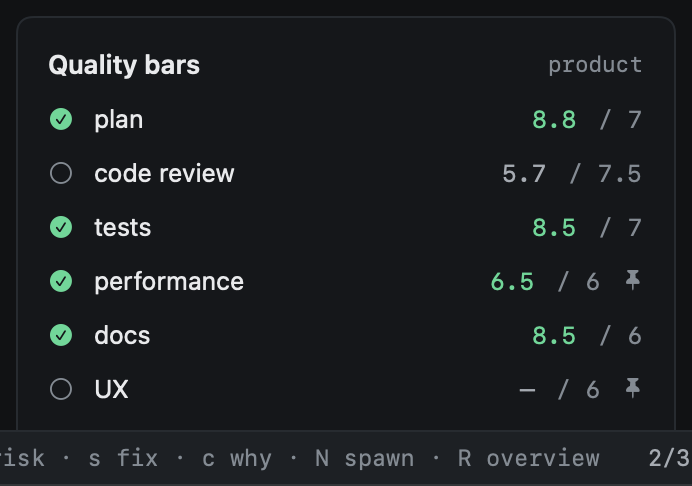
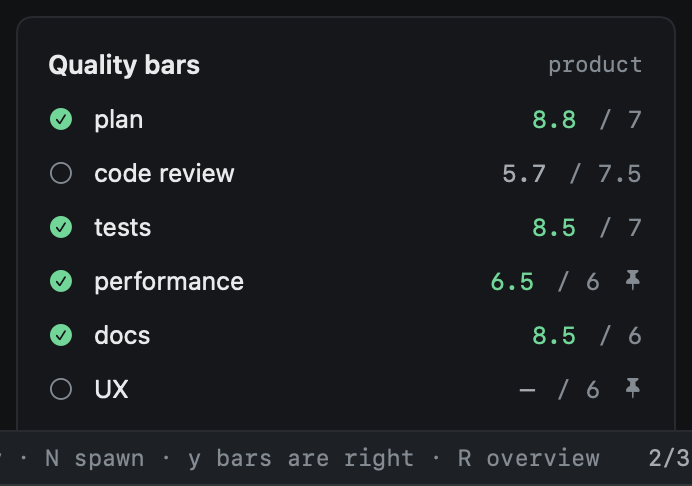
Proposals are answered once; the bars step waits for you
- GoalOps.accept and reject are idempotent per proposal id: yes to an edit already
  applied (or no to one already rejected) returns it unchanged, with no new version.
  The app keeps the answers in flight and a key pressed again before the store answers
  takes the next change (GoalEdits.next), never the same one. tutor-check's pauses
  that worked around the race are gone.
- "Choose the quality bars" no longer ticks off when heed works the profile out: it
  waits until you say the bars are right (goal.bars.accept, y in Reviewers, recorded as
  a profile decision of yours by GoalOps.confirmBars) or pin one, and asks again when
  the bars move after that. The Quality bars panel says whose the bars are.
- The swarm-goal-page shot renders taller: the next-steps card had pushed its panel
  out of the window, so the shot failed and kept a stale image.

Changed region(s): [[0.2731, 0.9259, 0.6069, 0.9877], [0.0, 0.9259, 0.2428, 0.9568], [0.789, 0.9259, 0.8194, 0.9568]]

diff --git a/Tests/HeedCoreTests/GoalGuideTests.swift b/Tests/HeedCoreTests/GoalGuideTests.swift
@@ -54,6 +54,47 @@ struct GoalGuideTests {
         #expect(GoalGuide.of(input).steps.first { $0.step == .mirror }?.state == .todo)
     }
 
+    @Test func theBarsWaitForYouNotForTheModel() async throws {
+        func decision(_ stakes: GoalProfile.Stakes, _ source: ProfileDecision.Source) -> QualityRecord {
+            let profile = GoalProfile(stakes: stakes)
+            return QualityRecord(goal: "g", at: t0, entry: .profile(ProfileDecision(
+                profile: profile, bars: profile.bars(), changes: [], note: "", goalVersion: 1, source: source
+            )))
+        }
+        func state(_ records: [QualityRecord]) -> GoalGuide.State {
+            GoalGuide.state(of: .bars, .init(doc: sharpDoc, quality: GoalQuality.fold(records, doc: sharpDoc)))
+        }
+        // heed worked the profile out: the step waits for you to look.
+        #expect(state([decision(.product, .model)]) == .waiting(
+            "heed set \(GoalProfile(stakes: .product).bars().count) bars from GOAL.md: confirm or change them",
+            command: "goal.reviewers"
+        ))
+        // You said they are right.
+        let mine = decision(.product, .you)
+        #expect(state([decision(.product, .model), mine]).isDone)
+        // The model moved them after you confirmed: look again.
+        var later = decision(.publicAPI, .model)
+        later.at = t0 + 60
+        #expect(state([mine, later]) == .waiting(
+            "the bars changed since you confirmed them",
+            command: "goal.reviewers"
+        ))
+        // A pin is you changing them.
+        #expect(state([decision(.product, .model), QualityRecord(goal: "g", at: t0 + 1, entry: .pins([.docs: 5]))])
+            .isDone)
+
+        // The operation records the bars as they stand, as yours.
+        let ops = try GoalOps.inMemory()
+        let goal = try await ops.create(title: "Faster search", statement: sharpDoc.goal, now: t0)
+        try await ops.setProfile(goal: goal.id, GoalProfile(stakes: .product), now: t0)
+        let records = try await ops.qualities()[goal.id]
+        #expect(records?.profile?.source == .model)
+        let confirmed = try await ops.confirmBars(goal: goal.id, now: t0 + 1)
+        #expect(confirmed.source == .you && confirmed.profile == GoalProfile(stakes: .product))
+        let after = try #require(try await ops.qualities()[goal.id])
+        #expect(GoalGuide.state(of: .bars, .init(doc: sharpDoc, quality: after)).isDone)
+    }
+
     @Test func aSwarmStartsTheWork() {
         let swarm = GoalSwarm(id: "g/swarm-1", goal: "g", number: 1, settings: SwarmSettings(repos: []), startedAt: t0)
         let state = GoalGuide.state(of: .start, .init(doc: sharpDoc, swarms: [swarm]))

diff --git a/Sources/HeedCore/Goals/GoalGuide.swift b/Sources/HeedCore/Goals/GoalGuide.swift
@@ -145,7 +145,7 @@ public enum GoalStep: String, CaseIterable, Hashable, Sendable, Codable {
             + "Without them nothing can say the goal is done."
         case .work: "Items are the pieces of work: the board moves them as sessions, PRs and merges show up."
         case .bars: "Not every goal needs a 10. Bars per lens (code review, tests, docs…) say how good is good "
-            + "enough, and reviewers score against them."
+            + "enough, and reviewers score against them. Look at them, then say they are right or change one."
         case .mirror: "Optional: colleagues follow the goal on GitHub, a meta issue and a sub-issue per item."
         case .start: "Start a session on an item, put one you have on the goal, or let a swarm plan and work it."
         }
@@ -278,13 +278,23 @@ public struct GoalGuide: Hashable, Sendable {
             let work = input.items.count { $0.kind == .work }
             return work > 0 ? .done("\(work) item\(work == 1 ? "" : "s") on the board") : .todo
         case .bars:
+            // Yours only: heed working the profile out sets bars, but the step waits for you to look at them.
             guard let quality = input.quality else { return .todo }
             if !quality.pins.isEmpty {
                 return .done("bars pinned for " + quality.pins.keys.sorted().map(\.title).joined(separator: ", "))
             }
-            if let profile = quality.profile {
-                let lenses = quality.lenses.count
-                return .done("\(profile.profile.text): \(lenses) lens\(lenses == 1 ? "" : "es") with a bar")
+            let now = Dictionary(uniqueKeysWithValues: quality.lenses.map { ($0.lens, $0.bar) })
+            if let mine = quality.profiles.last(where: { $0.source == .you }) {
+                if mine.bars == now {
+                    return .done("you confirmed \(now.count) bar\(now.count == 1 ? "" : "s")")
+                }
+                return .waiting("the bars changed since you confirmed them", command: "goal.reviewers")
+            }
+            if quality.profile != nil {
+                return .waiting(
+                    "heed set \(now.count) bar\(now.count == 1 ? "" : "s") from GOAL.md: confirm or change them",
+                    command: "goal.reviewers"
+                )
             }
             return .todo
         case .mirror:

diff --git a/Sources/HeedApp/Model/AppModel+GoalItems.swift b/Sources/HeedApp/Model/AppModel+GoalItems.swift
@@ -211,10 +211,15 @@ extension AppModel {
             words.removeFirst()
         }
         if case let .row("goals", key)? = commandTarget, key.hasPrefix("edit:") { named = Int64(key.dropFirst(5)) }
-        let waiting = goals.proposals
-        guard let edit = named.flatMap({ id in goals.snapshot.edits.first { $0.id == id } }) ?? waiting.first,
+        // A key pressed again before the last answer came back answers the next change, never the same one twice:
+        // the list moves on only once the store says the answer is in.
+        let next = GoalEdits.next(goals.proposals, answering: goals.answering)
+        guard let edit = named.flatMap({ id in goals.snapshot.edits.first { $0.id == id } }) ?? next,
               let id = edit.id
-        else { return say("no changes waiting for GOAL.md") }
+        else {
+            return say(goals.answering.isEmpty ? "no changes waiting for GOAL.md" : "still answering the last one")
+        }
+        guard !goals.answering.contains(id) else { return say("still answering that one") }
         let now = Clock.now
         let before = goals.snapshot.docs[edit.goal]
         switch answer {
@@ -222,10 +227,12 @@ extension AppModel {
             openCommandLine("goal.proposal.edit #\(id) \(edit.text)")
         case .accept, .edit:
             let text = words.isEmpty ? nil : words.joined(separator: " ")
+            goals.answering.insert(id)
             goals.run { ops in
                 try await ops.accept(edit: id, text: text, now: now)
             } done: { [weak self] result in
                 guard let self else { return }
+                goals.answering.remove(id)
                 switch result {
                 case let .success(done):
                     say(done.state == .applied ? "GOAL.md v\(done.version ?? 0): \(done.line)" : "nothing to change")
@@ -234,9 +241,11 @@ extension AppModel {
                 }
             }
         case .reject:
+            goals.answering.insert(id)
             goals.run { ops in
                 try await ops.reject(edit: id, now: now)
             } done: { [weak self] result in
+                self?.goals.answering.remove(id)
                 if case let .failure(error) = result { return self?.say("\(error)") ?? () }
                 self?.say("left out: \(edit.line)")
             }

diff --git a/Tests/HeedCoreTests/GoalItemTests.swift b/Tests/HeedCoreTests/GoalItemTests.swift
@@ -574,10 +574,27 @@ struct GoalItemOpsTests {
         #expect(accepted.state == .applied && accepted.text == "Hosted search services")
         #expect(try await GoalDoc.parse(ops.text(of: goal.id)).notTheGoal == ["Hosted search services"])
         #expect(try await ops.versions(of: goal.id).first?.author == .you)
-        await #expect(throws: try GoalOpError.editNot(.proposed, #require(scope.id))) {
-            try await ops.accept(edit: #require(scope.id), now: now)
-        }
+        // A second key before the store answered goes to the next change waiting, not the same one.
+        let proposals = try await ops.snapshot().proposals(of: goal.id)
+        #expect(proposals.count == 2)
+        #expect(GoalEdits.next(proposals, answering: []) == proposals[0])
+        #expect(try GoalEdits.next(proposals, answering: [#require(proposals[0].id)]) == proposals[1])
+        #expect(GoalEdits.next(proposals, answering: Set(proposals.compactMap(\.id))) == nil)
+        // Yes twice (a key pressed twice) applies it once: the same edit back, no new version.
+        let versions = try await ops.versions(of: goal.id).count
+        let again = try await ops.accept(edit: #require(scope.id), now: now + 6)
+        #expect(again == accepted)
+        #expect(try await ops.versions(of: goal.id).count == versions)
+        #expect(try await GoalDoc.parse(ops.text(of: goal.id)).notTheGoal == ["Hosted search services"])
         #expect(try await ops.reject(edit: #require(waiting.id), now: now + 7).state == .rejected)
+        #expect(try await ops.reject(edit: #require(waiting.id), now: now + 7).state == .rejected)
+        // Yes after no, or no after yes, is refused: nothing changes.
+        await #expect(throws: try GoalOpError.editNot(.proposed, #require(waiting.id))) {
+            try await ops.accept(edit: #require(waiting.id), now: now)
+        }
+        await #expect(throws: try GoalOpError.editNot(.proposed, #require(scope.id))) {
+            try await ops.reject(edit: #require(scope.id), now: now)
+        }
 
         let undone = try await ops.undo(edit: #require(decided.id), now: now + 8)
         #expect(undone.state == .undone)

diff --git a/Sources/HeedApp/Shots/TutorCheck.swift b/Sources/HeedApp/Shots/TutorCheck.swift
@@ -46,9 +46,8 @@ enum TutorCheck {
             "w",
             "T",
             ":goal.new Faster search<CR>",
-            // `|` waits as a person would for what the keys before it started (the goal made, a change accepted).
-            "|w",
-            "y|y|y|y",
+            "w",
+            "yyyy",
             "E",
         ],
         "hosts": [
@@ -74,15 +73,11 @@ enum TutorCheck {
                 if let target = step.target.flatMap(ShotRegion.init(rawValue:)) {
                     targetSeen = regions(model).contains(target)
                 }
-                let parts = (index < script.count ? script[index] : "").components(separatedBy: "|")
-                for (part, keys) in parts.enumerated() {
-                    if part > 0 { try? await Task.sleep(for: .milliseconds(300)) }
-                    for stroke in (try? KeyNotation.parse(keys)) ?? [] {
-                        _ = model.handle(stroke)
-                        try? await Task.sleep(for: .milliseconds(20))
-                        if !targetSeen, let target = step.target.flatMap(ShotRegion.init(rawValue:)) {
-                            targetSeen = regions(model).contains(target)
-                        }
+                for stroke in (try? KeyNotation.parse(index < script.count ? script[index] : "")) ?? [] {
+                    _ = model.handle(stroke)
+                    try? await Task.sleep(for: .milliseconds(20))
+                    if !targetSeen, let target = step.target.flatMap(ShotRegion.init(rawValue:)) {
+                        targetSeen = regions(model).contains(target)
                     }
                 }
                 // Some steps tick off when an operation off the main actor finishes (accepting a risk or friction

diff --git a/Sources/HeedCore/Tutor/Lessons.swift b/Sources/HeedCore/Tutor/Lessons.swift
@@ -499,7 +499,9 @@ public extension Tutor {
                 say: "{goal.new} opens a new goal; :goal.new with a title makes one at once. Make one.",
                 keys: [":goal.new Faster search↩"], target: "goalsList",
                 doneLine: "It opens on its overview, with a card that says what to do first."
-            ) { start, now, _ in now.goals > start.goals },
+            ) { start, now, _ in
+                now.goals > start.goals && now.goalPane == "overview" && now.goalNextStep == "sharpen"
+            },
             TutorStep(
                 "Sharpen it first",
                 say: "The card shows the next step, why it matters and its key, and ticks steps off from what is true "
@@ -524,8 +526,9 @@ public extension Tutor {
                 say: "{goal.doc} goes back to the overview. The tabs above every pane switch between them by click "
                     + "or key.",
                 keys: ["{goal.doc}"], target: "goalGuide",
-                doneLine: "Sharpen and Done when are ticked off; next is adding the work, then the quality bars and "
-                    + "starting it. What is left, criteria and bars, sits under the card and in the goal's row."
+                doneLine: "Sharpen and Done when are ticked off; next is adding the work, then the quality bars ("
+                    + "{goal.reviewers}, and {goal.bars.accept} there once they are right) and starting it. What is "
+                    + "left, criteria and bars, sits under the card and in the goal's row."
             ) { _, now, _ in now.goalPane == "overview" && now.goalNextStep == "work" },
         ]),
         TutorLesson(id: "log", title: "Call log", minutes: 2, world: .mondayMorning, steps: [

diff --git a/Sources/HeedCore/Goals/GoalOps+Quality.swift b/Sources/HeedCore/Goals/GoalOps+Quality.swift
@@ -97,6 +97,25 @@ public extension GoalOps {
         return decision
     }
 
+    /// You looked at the goal's bars and they are right: the profile as it stands (heed's, or internal work until a
+    /// model has looked) recorded again as yours, with the bars it gives now. The guided first steps tick off on this,
+    /// never on heed working the profile out alone.
+    @discardableResult
+    func confirmBars(goal id: String, now: Date, table: GoalBarTable = .defaults) throws -> ProfileDecision {
+        guard let goal = try store.goal(id) else { throw GoalOpError.unknownGoal(id) }
+        let before = try quality(of: id, table: table)
+        let profile = before.profile?.profile ?? .unknown
+        let bars = GoalQuality.bars(profile: before.profile, pins: before.pins, table: table)
+        let decision = ProfileDecision(
+            profile: profile, bars: bars, changes: [], note: "\(profile.text): bars confirmed",
+            goalVersion: goal.version, source: .you
+        )
+        var entries: [QualityEntry] = [.profile(decision)]
+        entries += Self.spawns(profile: profile, bars: bars, reviewers: before.reviewers).map(QualityEntry.reviewer)
+        try record(entries, goal: id, at: now, table: table)
+        return decision
+    }
+
     /// Your bars for the goal: lens → bar, 0 takes the lens off; replaces the pins before.
     @discardableResult
     func pin(goal id: String, _ pins: [GoalLens: Double], now: Date, table: GoalBarTable = .defaults) throws

diff --git a/Sources/HeedApp/Views/GoalReviewersView.swift b/Sources/HeedApp/Views/GoalReviewersView.swift
@@ -495,7 +495,21 @@ struct QualityBars: View {
                 Text("Not done: " + quality.done.missing.joined(separator: ", "))
                     .font(Theme.ui(11.5)).foregroundStyle(Theme.fg3).fixedSize(horizontal: false, vertical: true)
             }
-            KeyHint("goal.bar", scope: "goalreviewers", label: "pin a bar", color: Theme.fg2)
+            // Whose bars these are: the goal's first steps wait for you to say they are right, or change one.
+            let lenses = Dictionary(uniqueKeysWithValues: quality.lenses.map { ($0.lens, $0.bar) })
+            let mine = quality.profiles.last { $0.source == .you }
+            let confirmed = !quality.pins.isEmpty || mine?.bars == lenses
+            Text(confirmed ? "Yours: confirmed or pinned by you."
+                : mine == nil ? "Set by heed from GOAL.md: are they right for this goal?"
+                : "Changed since you confirmed them.")
+                .font(Theme.ui(11.5)).foregroundStyle(confirmed ? Theme.fg3 : Theme.block)
+                .fixedSize(horizontal: false, vertical: true)
+            HStack(spacing: 14) {
+                if !confirmed {
+                    KeyHint("goal.bars.accept", scope: "goalreviewers", label: "these bars are right", color: Theme.fg)
+                }
+                KeyHint("goal.bar", scope: "goalreviewers", label: "pin a bar", color: Theme.fg2)
+            }
         }
     }
 }

diff --git a/Sources/HeedCore/Goals/GoalOps.swift b/Sources/HeedCore/Goals/GoalOps.swift
@@ -385,17 +385,20 @@ public actor GoalOps {
         return try applyEdit(edit, now: now)
     }
 
-    /// Yes to a waiting edit, with its text changed first when `text` is given.
+    /// Yes to a waiting edit, with its text changed first when `text` is given. Yes to one already said yes to (a key
+    /// pressed twice) returns it as it is: an edit is applied once, never twice.
     @discardableResult
     public func accept(edit id: Int64, text: String? = nil, now: Date) throws -> GoalEdit {
+        if let done = try store.edit(id), done.state == .applied || done.state == .moot { return done }
         var edit = try waiting(id)
         if let text = text.map(GoalDoc.oneLine), !text.isEmpty { edit.text = text }
         return try applyEdit(edit, now: now)
     }
 
-    /// No to a waiting edit.
+    /// No to a waiting edit; no again to one already said no to returns it as it is.
     @discardableResult
     public func reject(edit id: Int64, now _: Date) throws -> GoalEdit {
+        if let done = try store.edit(id), done.state == .rejected { return done }
         var edit = try waiting(id)
         edit.state = .rejected
         try store.save(edit)

diff --git a/Sources/HeedApp/Model/AppModel+Reviewers.swift b/Sources/HeedApp/Model/AppModel+Reviewers.swift
@@ -265,6 +265,22 @@ extension AppModel {
         }
     }
 
+    /// `goal.bars.accept` (`y` in Reviewers): the goal's bars as they stand are right, recorded as yours.
+    func confirmGoalBars() {
+        guard let goal = goals.selected else { return say("no goal here") }
+        let now = Clock.now
+        let table = config.goals.bars
+        goals.run { ops in
+            try await ops.confirmBars(goal: goal.id, now: now, table: table)
+        } done: { [weak self] result in
+            switch result {
+            case let .success(decision):
+                self?.say("\(goal.title): \(decision.bars.count) bars confirmed (\(decision.profile.text))")
+            case let .failure(error): self?.say("\(error)")
+            }
+        }
+    }
+
     /// `goal.reopen`: undo heed marking the goal done; it stays open until what made it done changes.
     func reopenGoal() {
         let id = (view == .goals ? goals.selected?.id : nil) ?? attentionSelected

diff --git a/Sources/HeedApp/Shots/Shots.swift b/Sources/HeedApp/Shots/Shots.swift
@@ -515,7 +515,11 @@ enum Shots {
         Shot(id: "goals/swarm-approved", keys: "gGjS"),
         Shot(id: "goals/swarm-diff", keys: "gGjS<Tab>j", crop: .swarmVersions, cropPadding: 8),
         Shot(id: "goals/swarm-edit", keys: "gGSje", crop: .swarmEditor, cropPadding: 8),
-        Shot(id: "goals/swarm-goal-page", keys: "gG", crop: .goalSwarm, cropPadding: 8),
+        // Taller: the goal's next-steps card pushes the swarm panel below the fold of a 900-point window.
+        Shot(
+            id: "goals/swarm-goal-page", size: CGSize(width: 1440, height: 1300), keys: "gG", crop: .goalSwarm,
+            cropPadding: 8
+        ),
         // The anchors swarm running: 1.2 merged and done, 1.1's PR green, two workers stacked on it, one asking.
         Shot(id: "goals/swarm-running", keys: "gGjS", prepare: { $0.loadRunningSwarmFixture(.running) }),
         Shot(id: "goals/swarm-stacked", keys: "gGjS", crop: .swarmTask, cropPadding: 8, prepare: {

diff --git a/Sources/HeedCore/Keys/MenuBar.swift b/Sources/HeedCore/Keys/MenuBar.swift
@@ -295,7 +295,10 @@ public enum MenuBar {
                     ("Re-check", "review.recheck"), ("Accept the risk", "review.accept"),
                     ("Start a session to fix it", "review.fix"), ("Ask the reviewer why", "review.why"),
                     ("Spawn a reviewer", "reviewer.spawn"), ("Take the reviewer off", "reviewer.remove"),
-                    ("Pin a quality bar…", "goal.bar"), ("Not done yet", "goal.reopen"),
+                    ("Pin a quality bar…", "goal.bar"), ("These bars are right", "goal.bars.accept"), (
+                        "Not done yet",
+                        "goal.reopen"
+                    ),
                     ("Personas", "goal.personas"),
                     ("Evaluations", "goal.evaluations"),
                     ("Mirror to GitHub, or stop", "goal.mirror"), ("Tracker repo…", "goal.tracker"),
